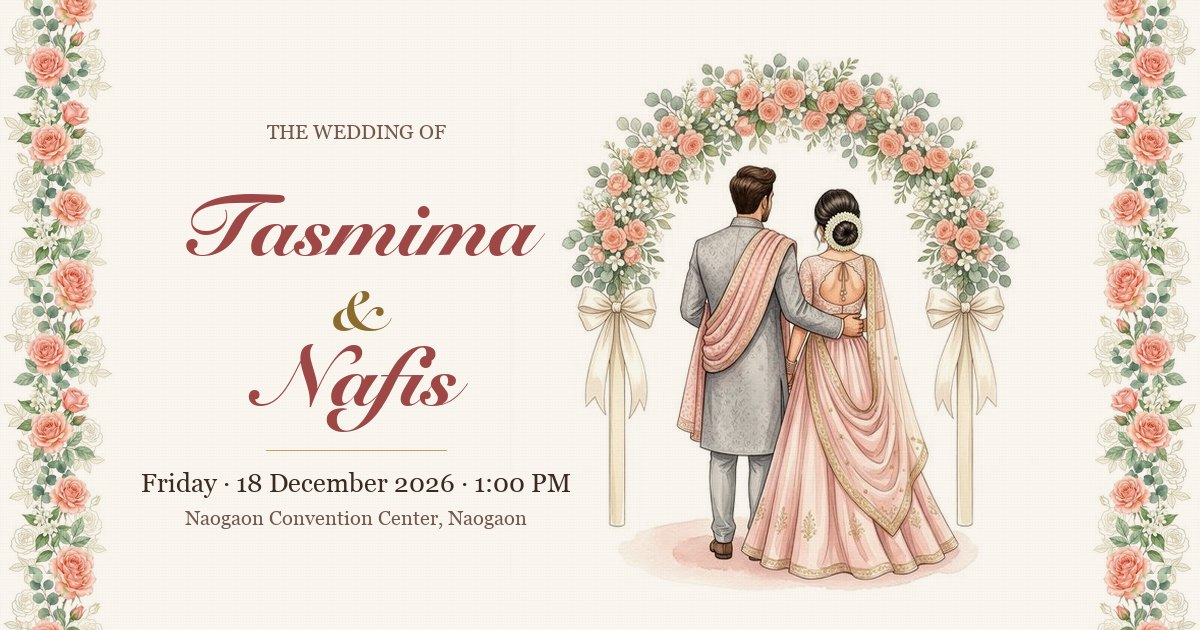
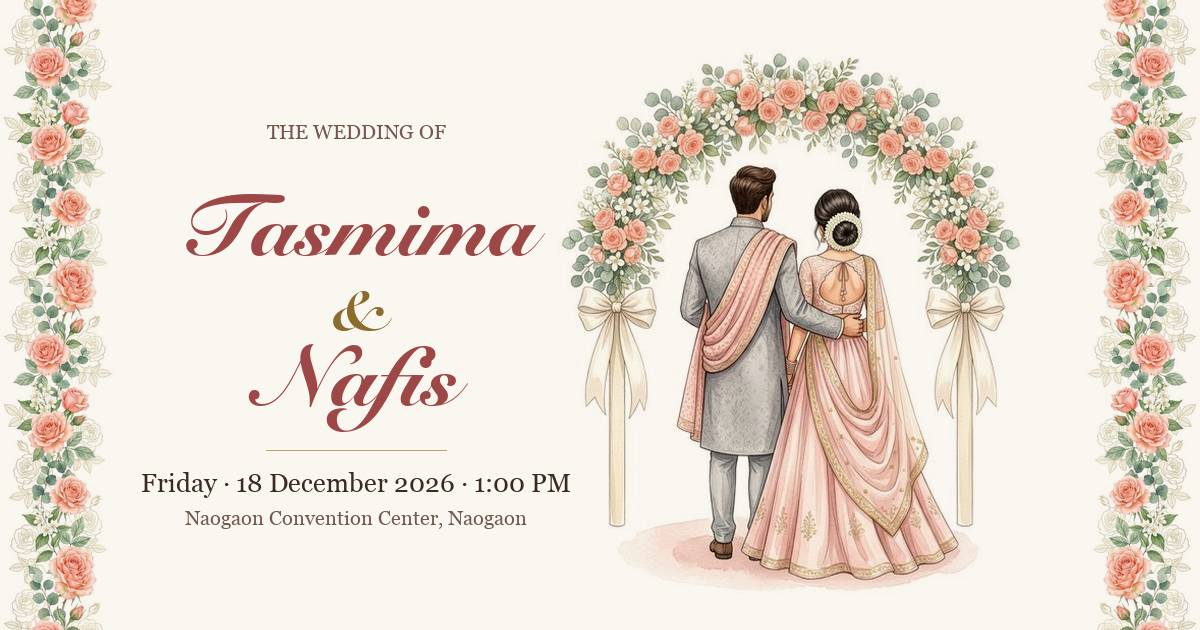
Polish layout, accessibility and mobile performance

diff --git a/styles.css b/styles.css
@@ -154,14 +154,22 @@ html.js .reveal.revealed { opacity: 1; transform: none; }
   font-size: clamp(.7rem, 1.6vw, .78rem); letter-spacing: .18em; text-transform: uppercase;
   color: var(--ink-soft); margin-bottom: 10px;
 }
-.section { position: relative; padding: clamp(52px, 7vw, 80px) 0; }
+.section { position: relative; padding: clamp(44px, 5vw, 64px) 0; }
+/* a small gold sprig marks the seam between consecutive sections */
+.section + .section::before {
+  content: ''; position: absolute; top: 0; left: 50%; width: 120px; height: 14px; transform: translate(-50%, -50%);
+  background:
+    radial-gradient(circle, var(--blush) 0 3px, transparent 3.5px) center / 14px 14px no-repeat,
+    linear-gradient(90deg, transparent, rgba(197,160,89,.6) 30%, transparent 45%, transparent 55%, rgba(197,160,89,.6) 70%, transparent) center / 100% 1px no-repeat;
+  pointer-events: none;
+}
 /* 8. anchor targets clear the sticky header */
-section[id], .rsvp-card { scroll-margin-top: calc(var(--header-h) + 12px); }
+section[id], .rsvp-card, .wish-form { scroll-margin-top: calc(var(--header-h) + 12px); }
 .section-panel {
   background:
     linear-gradient(180deg, rgba(243,232,218,.0), rgba(243,232,218,.65) 14%, rgba(243,232,218,.65) 86%, rgba(243,232,218,0));
 }
-.section-head { text-align: center; margin: 0 auto clamp(24px, 3.4vw, 40px); max-width: 720px; }
+.section-head { text-align: center; margin: 0 auto clamp(22px, 3vw, 34px); max-width: 720px; }
 .section-title {
   font-family: var(--f-serif); font-weight: 600;
   font-size: clamp(1.9rem, 4.2vw, 2.9rem); line-height: 1.15; color: var(--ink);
@@ -234,11 +242,12 @@ section[id], .rsvp-card { scroll-margin-top: calc(var(--header-h) + 12px); }
 }
 .brand-text { font-family: var(--f-script); font-size: 1.6rem; color: var(--rosewood); line-height: 1; white-space: nowrap; }
 .brand-amp { color: var(--gold-deep); }
-@media (max-width: 379px) { .brand-text { font-size: 1.32rem; } .brand { gap: 8px; } .brand-seal { width: 40px; height: 40px; } }
+@media (max-width: 379px) { .brand-text { font-size: 1.32rem; } .brand { gap: 8px; } }
+.brand { min-height: 44px; }
 
 .nav-links { display: none; list-style: none; margin: 0; padding: 0; align-items: center; gap: 2px; }
 .nav-links a {
-  position: relative; display: inline-block; padding: 10px 12px;
+  position: relative; display: inline-flex; align-items: center; min-height: 44px; padding: 10px 12px;
   font-family: var(--f-sans); font-size: .78rem; letter-spacing: .12em; text-transform: uppercase;
   color: var(--ink-soft); text-decoration: none; transition: color .2s;
 }
@@ -358,17 +367,33 @@ section[id], .rsvp-card { scroll-margin-top: calc(var(--header-h) + 12px); }
 @keyframes gentleFloat { 0%, 100% { transform: translateY(0); } 50% { transform: translateY(-6px); } }
 @media (prefers-reduced-motion: reduce) { .couple-img { animation: none; } }
 
-.scroll-cue {
-  display: none; margin: 4px auto 0; width: 26px; height: 42px; border: 1.5px solid var(--gold); border-radius: 14px; position: relative;
+.scroll-cue {   /* 44x48 hit area around a 26x42 mouse outline */
+  display: none; margin: 2px auto 0; width: 44px; height: 48px; position: relative; border-radius: 14px;
 }
+.scroll-cue::before { content: ''; position: absolute; left: 9px; top: 3px; width: 26px; height: 42px; border: 1.5px solid var(--gold); border-radius: 14px; box-sizing: border-box; }
 .scroll-cue span {
-  position: absolute; left: 50%; top: 8px; width: 4px; height: 8px; margin-left: -2px; border-radius: 2px; background: var(--gold);
+  position: absolute; left: 50%; top: 11px; width: 4px; height: 8px; margin-left: -2px; border-radius: 2px; background: var(--gold);
   animation: cue 1.8s ease-in-out infinite;
   animation-play-state: var(--play, paused);
 }
 @keyframes cue { 0% { opacity: 0; transform: translateY(0); } 40% { opacity: 1; } 100% { opacity: 0; transform: translateY(12px); } }
 @media (prefers-reduced-motion: reduce) { .scroll-cue span { animation: none; } }
 
+@media (max-width: 599px) {
+  .hero .garland-top { height: 42px; margin-bottom: 0; }
+  .bismillah-wrap { padding-top: 0; }
+  .hero .bismillah { font-size: 1.55rem; line-height: 1.5; }
+  .bismillah-rule { margin-top: 2px; }
+  .bismillah-meaning { margin-top: 4px; font-size: .95rem; line-height: 1.4; }
+  .hero-grid { margin-top: 12px; gap: 0; }
+  .hero-copy .eyebrow { margin-bottom: 2px; }
+  .hero-names { font-size: clamp(3.1rem, 14vw, 3.7rem); line-height: .98; }
+  .hero .divider { margin: 8px auto; }
+  .hero-venue { margin-top: 6px; font-size: 1.1rem; }
+  .hero-ctas { margin-top: 16px; }
+  .hero-countdown { margin-top: 10px; }
+  .hero-art { margin-top: 2px; }
+}
 @media (max-width: 379px) {
   .hero .garland-top { height: 40px; margin-bottom: 0; }
   .bismillah-wrap { padding-top: 0; }
@@ -381,6 +406,13 @@ section[id], .rsvp-card { scroll-margin-top: calc(var(--header-h) + 12px); }
   .hero-venue { margin-top: 6px; font-size: 1.08rem; }
   .hero-ctas { margin-top: 16px; gap: 10px; }
   .hero-ctas .btn { padding: 12px 18px; }
+}
+@media (min-width: 600px) and (max-width: 899px) {
+  .hero-names { font-size: clamp(4.4rem, 10vw, 5.4rem); }
+  .hero-date { font-size: .9rem; }
+  .hero-venue { font-size: 1.3rem; }
+  .hero-ctas .btn { min-height: 50px; padding: 14px 28px; font-size: .84rem; }
+  .hero-art { width: min(100%, 440px); }
 }
 @media (min-width: 900px) {
   .hero { min-height: 100vh; min-height: 100svh; display: flex; flex-direction: column; }
@@ -398,13 +430,15 @@ section[id], .rsvp-card { scroll-margin-top: calc(var(--header-h) + 12px); }
   position: relative; overflow: hidden; text-align: center;
   display: flex; flex-direction: column; justify-content: flex-start;
   background: var(--card); border: 1px solid var(--gold-light); border-radius: var(--radius);
-  padding: clamp(52px, 6vw, 64px) clamp(20px, 3vw, 34px);
+  /* vertical padding >= corner size, so the corner sprays sit above / below the text block */
+  padding: calc(var(--corner) + 6px) clamp(18px, 3vw, 30px);
   box-shadow: var(--shadow);
 }
 .person-card::before {
   content: ''; position: absolute; inset: 8px; border: 1px solid rgba(197,160,89,.35); border-radius: calc(var(--radius) - 6px); pointer-events: none;
 }
-.card-corner { position: absolute; width: clamp(56px, 12vw, 104px); pointer-events: none; opacity: .9; }
+.card-corner { position: absolute; width: var(--corner, 64px); pointer-events: none; opacity: .9; }
+.person-card { --corner: clamp(52px, 7vw, 72px); }
 .card-corner svg { display: block; width: 100%; height: auto; }
 .cc-tl { top: 0; left: 0; }
 .cc-tr { top: 0; right: 0; transform: scaleX(-1); }
@@ -456,7 +490,7 @@ section[id], .rsvp-card { scroll-margin-top: calc(var(--header-h) + 12px); }
   font-style: italic; font-weight: 500; font-size: clamp(1.2rem, 2.3vw, 1.4rem); line-height: 1.6; color: var(--msg-ink); max-width: 32ch;
 }
 .quran-quote { margin: 0; }
-.quran-quote p { font-size: clamp(1.4rem, 2.8vw, 1.75rem); }
+.quran-quote p { font-size: clamp(1.3rem, 2.5vw, 1.6rem); }
 .quran-ref { font-family: var(--f-sans); font-size: .76rem; letter-spacing: .14em; text-transform: uppercase; color: var(--gold-text); font-weight: 600; }
 .with-love { margin-top: clamp(24px, 3vw, 36px); text-align: center; font-style: italic; font-size: clamp(1.2rem, 2.4vw, 1.45rem); color: var(--msg-ink); }
 .with-love-names { display: inline-block; margin-top: 4px; font-style: normal; font-family: var(--f-script); font-size: clamp(2.2rem, 4.6vw, 3rem); color: var(--rosewood); line-height: 1.2; }
@@ -501,6 +535,9 @@ section[id], .rsvp-card { scroll-margin-top: calc(var(--header-h) + 12px); }
 @media (max-width: 559px) { .detail-text .br-wide { display: none; } }
 .details-card .actions { justify-content: flex-start; }
 .actions-cal { padding-top: 18px; margin-top: 18px; border-top: 1px dashed rgba(197,160,89,.5); }
+@media (min-width: 481px) and (max-width: 899px) {
+  .details-card .actions .btn { flex: 1 1 0; min-height: 50px; font-size: .82rem; }
+}
 
 .map-col { display: flex; flex-direction: column; gap: 14px; }
 .map-frame {
@@ -624,7 +661,7 @@ section[id], .rsvp-card { scroll-margin-top: calc(var(--header-h) + 12px); }
 }
 .field legend { margin-bottom: 8px; }
 .req { color: var(--rosewood); }
-.optional { text-transform: none; letter-spacing: 0; color: var(--ink-soft); font-weight: 400; }
+.optional { text-transform: none; letter-spacing: 0; color: var(--ink-soft); font-weight: 400; white-space: nowrap; }
 .field input[type="text"], .field input[type="tel"], .field input[type="number"], .field textarea {
   width: 100%; min-height: 48px; margin: 0; padding: 12px 14px; display: block;
   font-family: var(--f-sans); font-size: 1rem; color: var(--ink);
@@ -689,7 +726,7 @@ section[id], .rsvp-card { scroll-margin-top: calc(var(--header-h) + 12px); }
 
 @media (min-width: 900px) {
   .rsvp-layout { grid-template-columns: .85fr 1.15fr; gap: clamp(30px, 5vw, 64px); align-items: start; }
-  .rsvp-aside { text-align: left; position: sticky; top: calc(var(--header-h) + 48px); padding-top: 24px; }
+  .rsvp-aside { text-align: left; position: sticky; top: 100px; padding-top: 24px; }
   .rsvp-intro { margin-inline: 0; }
 }
 
@@ -725,7 +762,16 @@ section[id], .rsvp-card { scroll-margin-top: calc(var(--header-h) + 12px); }
 .wish-meta { display: flex; align-items: center; justify-content: space-between; gap: 10px; margin-top: 12px; padding-top: 10px; border-top: 1px solid rgba(197,160,89,.3); }
 .wish-name { font-family: var(--f-sans); font-weight: 600; font-size: .82rem; letter-spacing: .08em; text-transform: uppercase; color: var(--rosewood); }
 .wish-date { font-family: var(--f-sans); font-size: .78rem; color: var(--ink-soft); }
-.wish-empty { text-align: center; margin-top: 28px; font-style: italic; font-size: 1.2rem; color: var(--ink-soft); }
+.wish-empty {
+  position: relative; overflow: hidden; max-width: 620px; margin: clamp(24px, 3.4vw, 36px) auto 0; text-align: center;
+  background: var(--card); border: 1px dashed rgba(197,160,89,.7); border-radius: var(--radius);
+  padding: 74px clamp(20px, 5vw, 56px); box-shadow: var(--shadow);
+  --corner: 64px;
+}
+.wish-empty .card-corner { opacity: .75; }
+.wish-empty-icon { width: 34px; height: 34px; color: var(--blush-deep); margin: 0 auto 8px; display: block; }
+.wish-empty-title { font-family: var(--f-script); font-size: clamp(1.9rem, 4vw, 2.4rem); color: var(--rosewood); line-height: 1.2; }
+.wish-empty-text { margin: 8px auto 18px; max-width: 38ch; font-style: italic; font-size: 1.18rem; color: var(--msg-ink); text-wrap: pretty; }
 
 /* =====================================================================
    FOOTER
@@ -746,13 +792,16 @@ section[id], .rsvp-card { scroll-margin-top: calc(var(--header-h) + 12px); }
 
 .to-top {
   position: fixed; right: max(16px, env(safe-area-inset-right, 0px)); bottom: calc(18px + env(safe-area-inset-bottom, 0px)); z-index: 55;
-  width: 48px; height: 48px; border-radius: 50%; border: 1px solid var(--gold); cursor: pointer;
+  width: 44px; height: 44px; border-radius: 50%; border: 1px solid var(--gold); cursor: pointer;
   background: rgba(255,253,250,.92); color: var(--gold-text); box-shadow: 0 10px 24px -14px rgba(58,42,34,.6);
   display: inline-flex; align-items: center; justify-content: center;
   opacity: 0; visibility: hidden; transform: translateY(10px);
   transition: opacity .3s, transform .3s var(--ease), visibility .3s, background .2s, color .2s;
 }
-.to-top svg { width: 20px; height: 20px; }
+.to-top svg { width: 18px; height: 18px; }
+@media (max-width: 599px) {
+  .to-top { width: 40px; height: 40px; right: max(4px, env(safe-area-inset-right, 0px)); bottom: calc(12px + env(safe-area-inset-bottom, 0px)); }
+}
 .to-top.show { opacity: 1; visibility: visible; transform: none; }
 .to-top:hover, .to-top:focus-visible { background: var(--gold-text); color: var(--card); }
 
@@ -858,7 +907,8 @@ html.intro-on .overlay { display: flex; }
   animation: pulseLabel 2.2s ease-in-out infinite;
 }
 @keyframes pulseLabel { 0%, 100% { opacity: .7; } 50% { opacity: 1; } }
-.overlay.opening .scene-btn > span:not(.scene), .overlay.opening .skip-intro { opacity: 0; transition: opacity .4s ease; }
+.scene-btn > span:not(.scene), .skip-intro { transition: opacity .3s ease; }
+.overlay.opening .scene-btn > span:not(.scene), .overlay.opening .skip-intro { opacity: 0; }
 .skip-intro {
   position: absolute; z-index: 3; right: max(16px, env(safe-area-inset-right, 0px)); bottom: calc(18px + env(safe-area-inset-bottom, 0px));
   appearance: none; border: 1px solid rgba(197,160,89,.7); background: rgba(255,253,250,.8); border-radius: 999px;

diff --git a/index.html b/index.html
@@ -4,14 +4,14 @@
 <meta charset="UTF-8">
 <meta name="viewport" content="width=device-width, initial-scale=1.0, viewport-fit=cover">
 <title>Tasmima &amp; Nafis · Wedding · 18 December 2026</title>
-<meta name="description" content="With the blessings of Allah, Mst. Tasmima Zaman Mou and Nafis Fuad Rafat invite you to their wedding on Friday, 18 December 2026, 1:00 PM onward at Naogaon Convention Center, Naogaon, Bangladesh.">
+<meta name="description" content="Tasmima &amp; Nafis are getting married on Friday, 18 December 2026, 1:00 PM onward at Naogaon Convention Center, Naogaon, Bangladesh. Kindly RSVP.">
 <meta name="theme-color" content="#FAF6F0">
 <link rel="canonical" href="https://ssmugdho7.github.io/nafis-tasmima-wedding/">
 <meta property="og:type" content="website">
 <meta property="og:site_name" content="Tasmima &amp; Nafis · Wedding">
 <meta property="og:url" content="https://ssmugdho7.github.io/nafis-tasmima-wedding/">
 <meta property="og:title" content="Tasmima &amp; Nafis · Wedding Invitation">
-<meta property="og:description" content="Friday, 18 December 2026 · 1:00 PM onward · Naogaon Convention Center, Naogaon, Bangladesh. Please join us and keep the couple in your duas.">
+<meta property="og:description" content="Friday, 18 December 2026 · 1:00 PM onward · Naogaon Convention Center, Naogaon. Please join us and keep the couple in your duas.">
 <meta property="og:image" content="https://ssmugdho7.github.io/nafis-tasmima-wedding/assets/og-preview.jpg">
 <meta property="og:image:secure_url" content="https://ssmugdho7.github.io/nafis-tasmima-wedding/assets/og-preview.jpg">
 <meta property="og:image:type" content="image/jpeg">
@@ -27,7 +27,7 @@
 <link rel="preconnect" href="https://fonts.gstatic.com" crossorigin>
 <link rel="stylesheet" href="https://fonts.googleapis.com/css2?family=Great+Vibes&amp;family=Cormorant+Garamond:ital,wght@0,400;0,600;0,700;1,400;1,500&amp;family=Jost:wght@400;500;600&amp;display=swap">
 <!-- Arabic fonts subset to exactly the characters used on this page (update &text= if Arabic copy changes) -->
-<link rel="stylesheet" href="https://fonts.googleapis.com/css2?family=Aref+Ruqaa:wght@700&amp;family=Amiri:wght@700&amp;display=swap&amp;text=%20%D8%A7%D8%A8%D8%A9%D8%AA%D8%AC%D8%AD%D8%AE%D8%AF%D8%B1%D8%B3%D8%B9%D9%81%D9%83%D9%84%D9%85%D9%86%D9%87%D9%88%D9%8A%D9%8D%D9%8E%D9%8F%D9%90%D9%91%D9%92%D9%B0">
+<link rel="stylesheet" href="https://fonts.googleapis.com/css2?family=Aref+Ruqaa:wght@700&amp;family=Amiri:wght@700&amp;display=swap&amp;text=%20%D8%A7%D8%A8%D8%A9%D8%AA%D8%AC%D8%AD%D8%AE%D8%AF%D8%B1%D8%B3%D8%B9%D9%81%D9%83%D9%84%D9%85%D9%86%D9%87%D9%88%D9%8A%D9%8B%D9%8D%D9%8E%D9%8F%D9%90%D9%91%D9%92%D9%B0">
 <link rel="stylesheet" href="styles.css">
 <script>
   /* Decide before first paint whether the envelope intro shows (avoids a flash). */
@@ -251,7 +251,7 @@
 
       <div class="container">
         <div class="bismillah-wrap reveal">
-          <p class="bismillah" dir="rtl" lang="ar">بسم الله الرحمن الرحيم</p>
+          <p class="bismillah" dir="rtl" lang="ar">بِسْمِ اللَّهِ الرَّحْمَٰنِ الرَّحِيمِ</p>
           <div class="bismillah-rule" aria-hidden="true"></div>
           <p class="bismillah-meaning">In the name of Allah, the Most Gracious, the Most Merciful</p>
         </div>
@@ -282,7 +282,7 @@
           <div class="hero-art">
             <div class="hero-glow" aria-hidden="true"></div>
             <picture>
-              <source type="image/webp" srcset="assets/couple.webp">
+              <source type="image/webp" srcset="assets/couple-400.webp 400w, assets/couple.webp 550w" sizes="(max-width: 520px) calc(100vw - 80px), 470px">
               <img class="couple-img" src="assets/couple.jpg" width="550" height="550" decoding="async" fetchpriority="high" alt="Watercolor illustration of the bride and groom standing together beneath a floral arch of roses and jasmine">
             </picture>
           </div>
@@ -346,6 +346,7 @@
           </figure>
           <figure class="dua-card reveal">
             <p class="dua-label">From the Holy Quran</p>
+            <p class="dua-arabic" dir="rtl" lang="ar">وَجَعَلَ بَيْنَكُم مَّوَدَّةً وَرَحْمَةً</p>
             <blockquote class="quran-quote"><p>&ldquo;And He placed between you affection and mercy.&rdquo;</p></blockquote>
             <figcaption class="quran-ref">Quran &middot; Surah Ar-Rum 30:21</figcaption>
           </figure>
@@ -521,7 +522,7 @@
               </fieldset>
 
               <div class="field" id="guestsField">
-                <label for="rGuests">Number of guests (including you)</label>
+                <label for="rGuests">Number of guests <span class="optional">(including you)</span></label>
                 <div class="stepper">
                   <button type="button" class="step-btn" data-step="-1" aria-label="Decrease guests" aria-controls="rGuests">&minus;</button>
                   <input id="rGuests" name="guests" type="number" inputmode="numeric" min="1" max="10" value="1" aria-describedby="rGuestsErr">
@@ -588,7 +589,14 @@
         </form>
 
         <ul class="wish-wall" id="wishWall" aria-live="polite" aria-label="Wishes from guests"></ul>
-        <p class="wish-empty" id="wishEmpty">No wishes yet &mdash; be the first to leave a dua for the couple.</p>
+        <div class="wish-empty" id="wishEmpty">
+          <div class="card-corner cc-tl" aria-hidden="true"><svg viewBox="0 0 170 170"><use href="#floral-corner"/></svg></div>
+          <div class="card-corner cc-br" aria-hidden="true"><svg viewBox="0 0 170 170"><use href="#floral-corner"/></svg></div>
+          <svg class="wish-empty-icon" aria-hidden="true"><use href="#i-heart"/></svg>
+          <p class="wish-empty-title">The wall is waiting for its first dua</p>
+          <p class="wish-empty-text">Share a blessing, a memory or a few kind words for Tasmima &amp; Nafis &mdash; your message will bloom here.</p>
+          <a class="btn btn-gold" href="#wishForm" id="writeWish">Write a Wish</a>
+        </div>
         <p class="form-note center">Wishes are saved in this browser only.</p>
       </div>
     </section>

diff --git a/script.js b/script.js
@@ -170,10 +170,29 @@
   var menuBtn = $('menuBtn'), drawer = $('drawer'), backdrop = $('drawerBackdrop'), drawerClose = $('drawerClose');
   var drawerOpen = false;
 
+  var footerEl = doc.querySelector('.site-footer');
+  var lastY = window.scrollY || 0, toTopIdle = 0;
   function onScroll() {
     var y = window.scrollY || window.pageYOffset;
+    var vh = window.innerHeight;
     header.classList.toggle('scrolled', y > 24);
-    toTop.classList.toggle('show', y > window.innerHeight * 0.9);
+    // Show only after a real scroll (2 screens), never once the footer (which has its own
+    // "Back to Top" button) is in view. On phones the text runs to the edge, so the button
+    // only appears while the reader scrolls back up, then tucks away after a short pause —
+    // it never rests on top of text during normal reading.
+    var nearFooter = footerEl && footerEl.getBoundingClientRect().top < vh - 40;
+    var eligible = y > vh * 2 && !nearFooter;
+    var narrow = window.innerWidth < 600;
+    var show = eligible && (!narrow || y < lastY - 2 || (toTop.classList.contains('show') && y <= lastY));
+    if (narrow && toTop.contains(doc.activeElement)) show = eligible;   // keep it while focused
+    toTop.classList.toggle('show', show);
+    lastY = y;
+    clearTimeout(toTopIdle);
+    if (narrow && show) {
+      toTopIdle = setTimeout(function () {
+        if (!toTop.contains(doc.activeElement)) toTop.classList.remove('show');
+      }, 2200);
+    }
   }
   window.addEventListener('scroll', onScroll, { passive: true });
   onScroll();
@@ -520,7 +539,7 @@
     var list = storeGet('localStorage', STORE.wishes, []);
     return Array.isArray(list) ? list : [];
   }
-  function saveWishes(list) { storeSet('localStorage', STORE.wishes, list.slice(0, 200)); }
+  function saveWishes(list) { return storeSet('localStorage', STORE.wishes, list.slice(0, 200)); }
   function upsertWish(w) {
     var list = getWishes();
     var id = w.id || ('w' + Date.now().toString(36) + Math.random().toString(36).slice(2, 6));
@@ -529,7 +548,10 @@
     for (var i = 0; i < list.length; i++) if (list[i].id === id) idx = i;
     if (idx >= 0) list.splice(idx, 1);
     list.unshift(item);
-    saveWishes(list);
+    if (!saveWishes(list)) {
+      showToast('Sorry \u2014 your wish couldn\u2019t be saved on this device');
+      return null;
+    }
     renderWishes();
     return id;
   }
@@ -565,7 +587,7 @@
     var okN = setError(wName, $('wNameErr'), n ? '' : 'Please enter your name.');
     var okM = setError(wMsg, $('wMsgErr'), m.length >= 2 ? '' : 'Please write a short wish or dua.');
     if (!okN || !okM) { (okN ? wMsg : wName).focus(); return; }
-    upsertWish({ name: n, message: m });
+    if (!upsertWish({ name: n, message: m })) return;   // keep the text so nothing is lost
     wishForm.reset();
     showToast('JazakAllahu khairan for your dua');
   });
@@ -575,6 +597,11 @@
     });
   });
   renderWishes();
+  $('writeWish').addEventListener('click', function (e) {
+    e.preventDefault();
+    wishForm.scrollIntoView({ behavior: reducedMotion ? 'auto' : 'smooth', block: 'center' });
+    try { wName.focus({ preventScroll: true }); } catch (err) { wName.focus(); }
+  });
   window.addEventListener('storage', function (e) { if (e.key === STORE.wishes) renderWishes(); });
 
   /* ---------------- map: tap to load ---------------- */
@@ -699,10 +726,10 @@
     }
     // A gentle welcome, not a screensaver: the particles run while the hero is on screen,
     // for at most PARTICLE_BUDGET ms of visible time, then fade out and stop for good.
-    var PARTICLE_BUDGET = 15000;
-    var used = 0, runStart = 0, heroVisible = true, done = false, fadeTimer = 0;
+    var PARTICLE_BUDGET = window.innerWidth < 640 ? 10000 : 15000;
+    var used = 0, runStart = 0, heroVisible = true, done = false, fadeTimer = 0, typing = false;
     function play() {
-      if (rafId || done || doc.hidden || !heroVisible) return;
+      if (rafId || done || doc.hidden || !heroVisible || typing) return;
       clearTimeout(fadeTimer);
       canvas.classList.remove('fade');
       last = runStart = performance.now();
@@ -725,6 +752,13 @@
       if (total >= PARTICLE_BUDGET) finish();
     }, 1000);
     doc.addEventListener('visibilitychange', function () { if (doc.hidden) pause(false); else play(); });
+    // keep typing smooth: no animation frames while a form field has focus
+    function isField(el) { return el && /^(INPUT|TEXTAREA|SELECT)$/.test(el.tagName); }
+    doc.addEventListener('focusin', function (e) { if (isField(e.target)) { typing = true; pause(false); } });
+    doc.addEventListener('focusout', function (e) {
+      if (!isField(e.target)) return;
+      setTimeout(function () { typing = isField(doc.activeElement); if (!typing) play(); }, 0);
+    });
     var hero = $('home');
     if (hero && 'IntersectionObserver' in window) {
       new IntersectionObserver(function (entries) {
